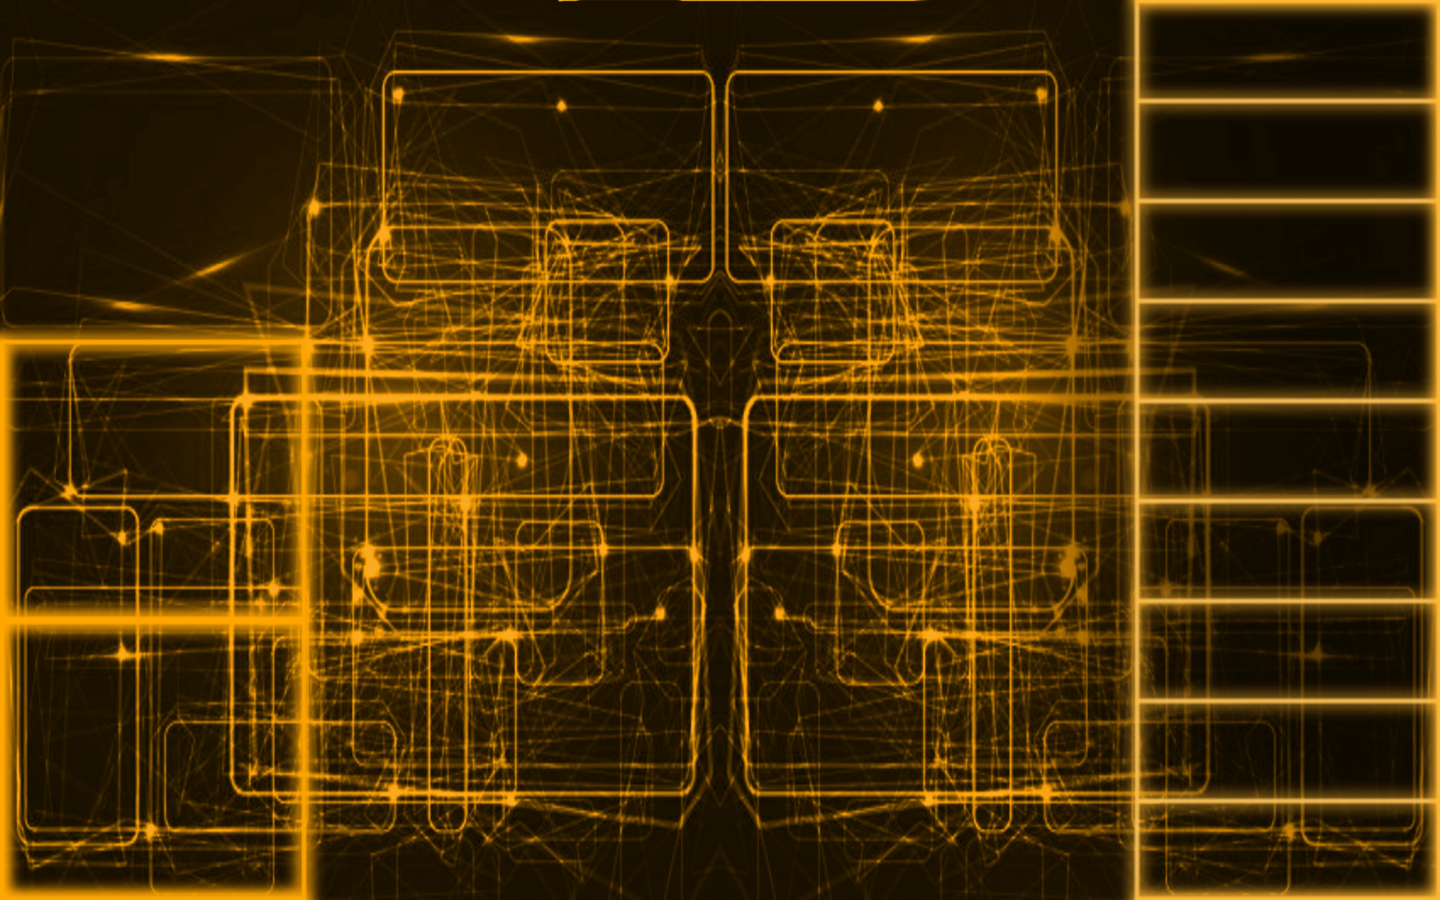
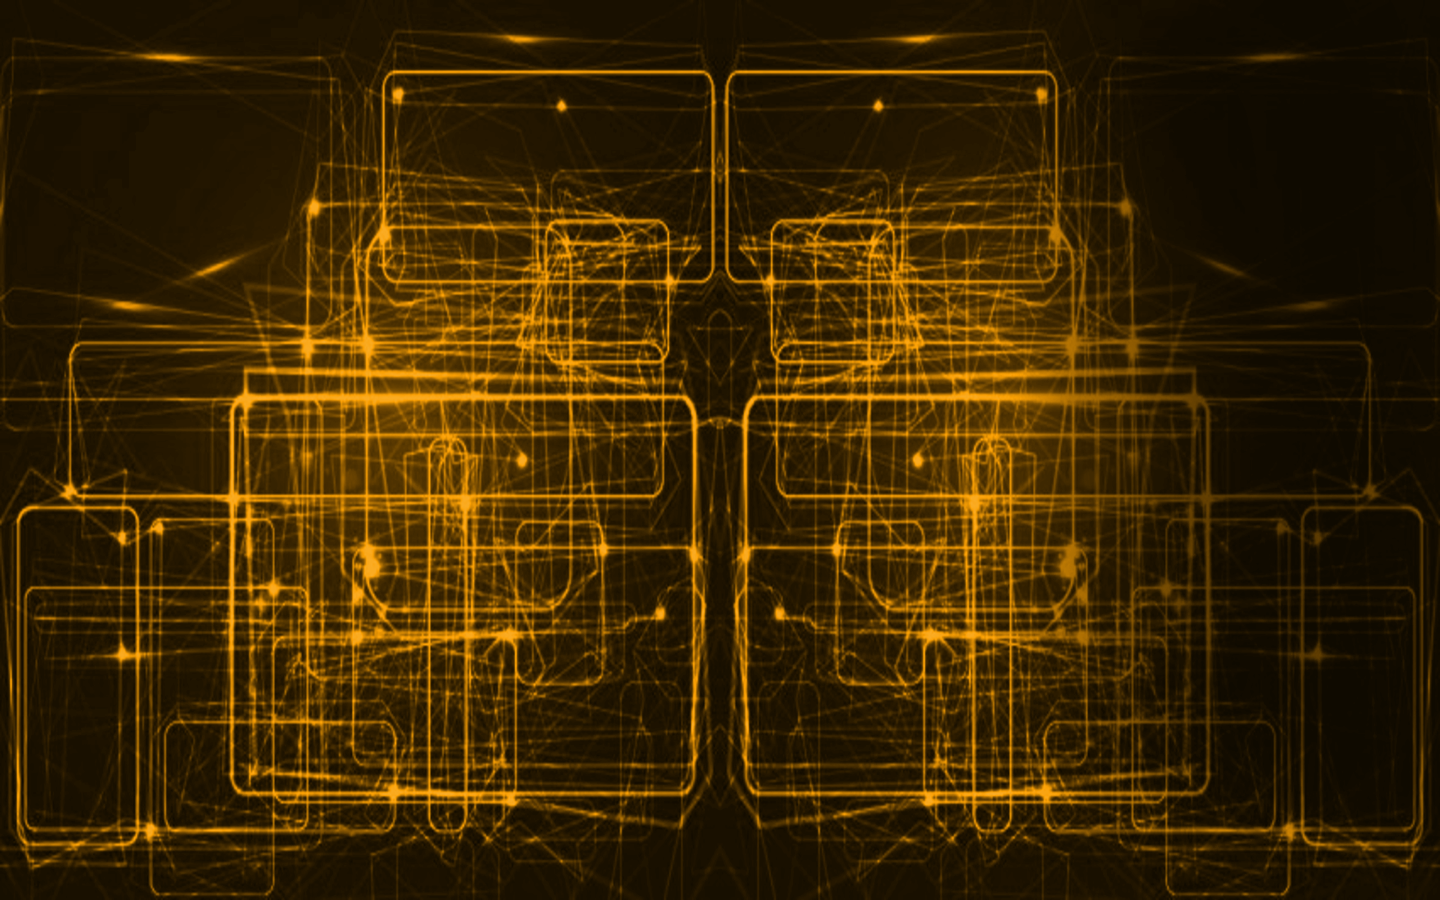
Separate frame squares from background.  Stop radar image movies on non-visible frames

Changed region(s): [[0.7812, 0.0, 1.0, 1.0], [0.0, 0.3422, 0.25, 1.0]]

diff --git a/Clock/PyQtPiClock.py b/Clock/PyQtPiClock.py
@@ -5,6 +5,7 @@ import sys, os, platform, signal
 import datetime, time, json
 from pprint import pprint
 import random
+from pywin import framework
 sys.dont_write_bytecode = True
 
 from PyQt4 import QtGui, QtCore, QtNetwork
@@ -265,6 +266,8 @@ class Radar(QtGui.QLabel):
         self.wmk.setStyleSheet("#mk { background-color: transparent; }")    
         self.wmk.setGeometry(0, 0, rect.width(), rect.height())
 
+        self.wxmovie = QMovie()
+
     def mapurl(self, radar,rect,markersonly):
         #'https://maps.googleapis.com/maps/api/staticmap?maptype=hybrid&center='+rcenter.lat+','+rcenter.lng+'&zoom='+rzoom+'&size=300x275'+markersr;
         urlp = [];
@@ -329,7 +332,8 @@ class Radar(QtGui.QLabel):
         self.wxbuff.open(QtCore.QIODevice.ReadOnly)
         self.wxmovie = QMovie(self.wxbuff, 'GIF')
         self.wwx.setMovie( self.wxmovie)
-        self.wxmovie.start()
+        if self.parent().isVisible():
+            self.wxmovie.start()
 
     def getwx(self):
         global manager
@@ -357,6 +361,12 @@ class Radar(QtGui.QLabel):
         QtCore.QObject.connect(self.timer,QtCore.SIGNAL("timeout()"), self.getwx)
         self.timer.start(interval)
        
+    def wxstart(self):
+        self.wxmovie.start()
+        
+    def wxstop(self):
+        self.wxmovie.stop()
+        
     def stop(self):
         try:
             self.timer.stop()
@@ -381,14 +391,26 @@ def myquit(a=0,b=0):
     temptimer.stop()
     
     QtCore.QTimer.singleShot(30, realquit)
-    
+
+def fixupframe(frame,onoff):
+    for child in frame.children():
+        if isinstance(child,Radar):
+            if onoff:
+                #print "calling wxstart on radar on ",frame.objectName()
+                child.wxstart()
+            else:
+                #print "calling wxstop on radar on ",frame.objectName()
+                child.wxstop()
+        
 def nextframe():
     global frames, framep
     frames[framep].setVisible(False)
+    fixupframe(frames[framep],False)
     framep += 1
     if framep >= len(frames): framep = 0
     frames[framep].setVisible(True)
-    
+    fixupframe(frames[framep],True)
+
 class myMain(QtGui.QWidget):
     def keyPressEvent(self, event):
         global weatherplayer, lastkeytime
@@ -457,10 +479,19 @@ frames.append(frame1)
 frame2 = QtGui.QFrame(w)
 frame2.setObjectName("frame2")
 frame2.setGeometry(0,0,width,height)
-frame2.setStyleSheet("#frame2 { background-color: blue; border-image: url("+Config.background2+") 0 0 0 0 stretch stretch;}")
+frame2.setStyleSheet("#frame2 { background-color: blue; border-image: url("+Config.background+") 0 0 0 0 stretch stretch;}")
 frame2.setVisible(False)
 frames.append(frame2)
 
+squares1 = QtGui.QFrame(frame1)
+squares1.setObjectName("squares1")
+squares1.setGeometry(0,height-yscale*600,xscale*340,yscale*600)
+squares1.setStyleSheet("#squares1 { background-color: transparent; border-image: url("+Config.squares1+") 0 0 0 0 stretch stretch;}")
+
+squares2 = QtGui.QFrame(frame1)
+squares2.setObjectName("squares2")
+squares2.setGeometry(width-xscale*340,0,xscale*340,yscale*900)
+squares2.setStyleSheet("#squares2 { background-color: transparent; border-image: url("+Config.squares2+") 0 0 0 0 stretch stretch;}")
 
 clockface = QtGui.QFrame(frame1)
 clockface.setObjectName("clockface")

diff --git a/Clock/Config-Example.py b/Clock/Config-Example.py
@@ -4,7 +4,8 @@ wuprefix = 'http://api.wunderground.com/api/'
 wulocation = LatLng(44.7212951,-93.2008627)
 noaastream = 'http://audioplayer.wunderground.com:80/tim273/edina'
 background = 'images/clockbackground-kevin.png'
-background2 = 'images/clockbackground2-kevin.png'
+squares1 = 'images/squares1-kevin.png'
+squares2 = 'images/squares2-kevin.png'
 icons = 'icons-lightblue'
 textcolor = '#bef'
 clockface = 'images/clockface3.png'
